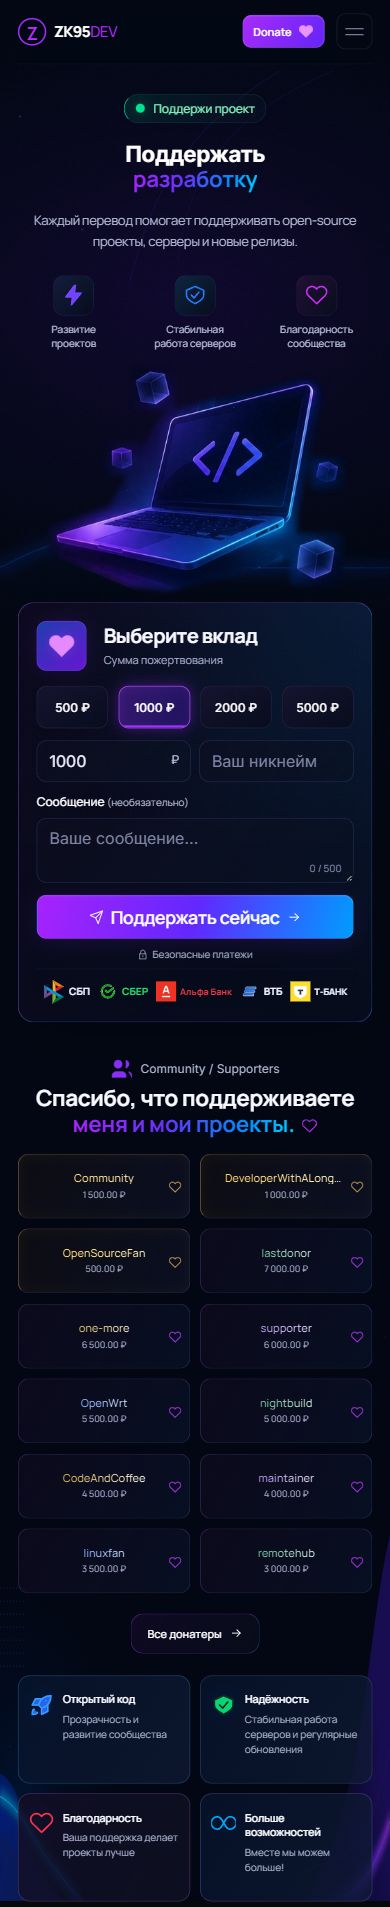
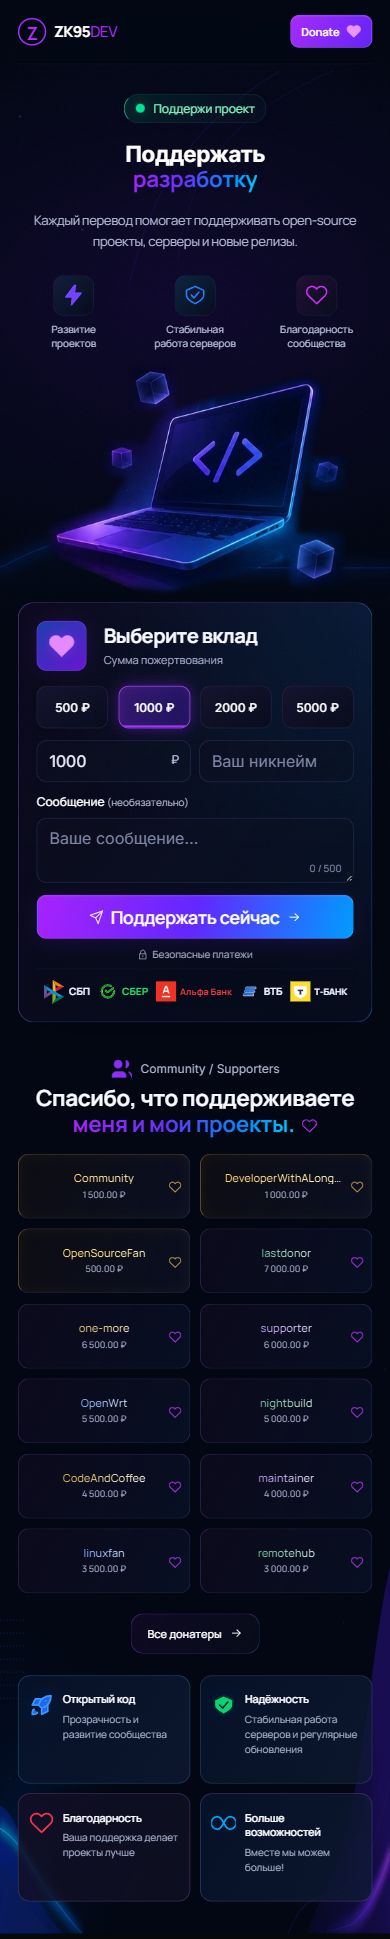
Remove Cyber home navigation and add space below feature cards

diff --git a/templates/admin/base.html b/templates/admin/base.html
@@ -1,2 +1,2 @@
 <!doctype html>
-<html lang="ru"><head><meta charset="utf-8"><meta name="viewport" content="width=device-width, initial-scale=1"><meta name="theme-color" content="#07080a"><link rel="icon" type="image/svg+xml" href="{{ url_for('static', filename='favicon.svg') }}"><link rel="manifest" href="{{ url_for('static', filename='manifest.webmanifest') }}"><link rel="apple-touch-icon" sizes="180x180" href="{{ url_for('static', filename='apple-touch-icon.png') }}"><meta name="apple-mobile-web-app-capable" content="yes"><meta name="apple-mobile-web-app-status-bar-style" content="black-translucent"><title>{% block title %}Admin — ZKS95{% endblock %}</title><link rel="stylesheet" href="{{ url_for('static', filename='css/style.css') }}">{% if site_theme == 'cyber' %}<link rel="stylesheet" href="{{ url_for('static', filename='css/cyber.css', v='compact-4') }}"><link rel="stylesheet" href="{{ url_for('static', filename='css/cyber-shared.css', v='1') }}">{% endif %}{% block head %}{% endblock %}</head><body class="admin-body theme-{{ site_theme }} visual-effect-{{ visual_effect }} visual-speed-{{ visual_speed }}"><div class="visual-layer" aria-hidden="true"></div><header class="admin-header"><a class="brand" href="{{ url_for('admin.dashboard') }}"><span class="brand-mark">Z</span><span>ZKS95<span class="brand-muted">/ADMIN</span></span></a>{% if admin_username %}<nav class="admin-nav"><a href="{{ url_for('admin.dashboard') }}">Обзор</a><a href="{{ url_for('admin.payments') }}">Платежи</a><a href="{{ url_for('admin.donors') }}">Донатеры</a><a href="{{ url_for('admin.notifications') }}">Уведомления</a><a href="{{ url_for('admin.settings') }}">Настройки</a><a href="{{ url_for('admin.account') }}">Аккаунт</a><form method="post" action="{{ url_for('admin.logout') }}"><input type="hidden" name="csrf_token" value="{{ csrf_token() }}"><button>Выйти</button></form></nav>{% endif %}</header><main class="admin-main">{% with messages=get_flashed_messages(with_categories=true) %}{% for category,message in messages %}<div class="flash flash-{{ category }}">{{ message }}</div>{% endfor %}{% endwith %}{% block content %}{% endblock %}</main>{% block scripts %}{% endblock %}</body></html>
+<html lang="ru"><head><meta charset="utf-8"><meta name="viewport" content="width=device-width, initial-scale=1"><meta name="theme-color" content="#07080a"><link rel="icon" type="image/svg+xml" href="{{ url_for('static', filename='favicon.svg') }}"><link rel="manifest" href="{{ url_for('static', filename='manifest.webmanifest') }}"><link rel="apple-touch-icon" sizes="180x180" href="{{ url_for('static', filename='apple-touch-icon.png') }}"><meta name="apple-mobile-web-app-capable" content="yes"><meta name="apple-mobile-web-app-status-bar-style" content="black-translucent"><title>{% block title %}Admin — ZKS95{% endblock %}</title><link rel="stylesheet" href="{{ url_for('static', filename='css/style.css') }}">{% if site_theme == 'cyber' %}<link rel="stylesheet" href="{{ url_for('static', filename='css/cyber.css', v='spacing-5') }}"><link rel="stylesheet" href="{{ url_for('static', filename='css/cyber-shared.css', v='1') }}">{% endif %}{% block head %}{% endblock %}</head><body class="admin-body theme-{{ site_theme }} visual-effect-{{ visual_effect }} visual-speed-{{ visual_speed }}"><div class="visual-layer" aria-hidden="true"></div><header class="admin-header"><a class="brand" href="{{ url_for('admin.dashboard') }}"><span class="brand-mark">Z</span><span>ZKS95<span class="brand-muted">/ADMIN</span></span></a>{% if admin_username %}<nav class="admin-nav"><a href="{{ url_for('admin.dashboard') }}">Обзор</a><a href="{{ url_for('admin.payments') }}">Платежи</a><a href="{{ url_for('admin.donors') }}">Донатеры</a><a href="{{ url_for('admin.notifications') }}">Уведомления</a><a href="{{ url_for('admin.settings') }}">Настройки</a><a href="{{ url_for('admin.account') }}">Аккаунт</a><form method="post" action="{{ url_for('admin.logout') }}"><input type="hidden" name="csrf_token" value="{{ csrf_token() }}"><button>Выйти</button></form></nav>{% endif %}</header><main class="admin-main">{% with messages=get_flashed_messages(with_categories=true) %}{% for category,message in messages %}<div class="flash flash-{{ category }}">{{ message }}</div>{% endfor %}{% endwith %}{% block content %}{% endblock %}</main>{% block scripts %}{% endblock %}</body></html>

diff --git a/static/css/cyber.css b/static/css/cyber.css
@@ -32,10 +32,10 @@ body.theme-cyber {
 .theme-cyber #donate-form, .theme-cyber #features, .theme-cyber #supporters { scroll-margin-top: 85px; }
 .theme-cyber .page-hero h1 { overflow-wrap: anywhere; }
 
-/* Header: the same 64 px rhythm and centred navigation as the supplied image. */
+/* Compact header with the brand and payment action. */
 .theme-cyber .site-header {
   position: sticky; top: 0; z-index: 50; height: 64px; margin: auto;
-  display: grid; grid-template-columns: 220px 1fr 170px; align-items: center;
+  display: grid; grid-template-columns: 1fr auto; align-items: center;
   border-bottom: 1px solid #6374ad18; background: #020713b8;
   backdrop-filter: blur(18px); -webkit-backdrop-filter: blur(18px);
   transition: box-shadow .25s, background .25s;
@@ -138,7 +138,7 @@ body.theme-cyber {
 .theme-cyber .cyber-supporters .empty-state { grid-column: 1 / -1; }
 
 /* Feature strip. */
-.theme-cyber .cyber-features { display: grid; grid-template-columns: repeat(4, minmax(0, 1fr)); gap: 17px; padding-bottom: 0; }
+.theme-cyber .cyber-features { display: grid; grid-template-columns: repeat(4, minmax(0, 1fr)); gap: 17px; padding-bottom: clamp(32px, 4vw, 64px); }
 .cyber-feature { display: flex; gap: 20px; align-items: flex-start; min-width: 0; min-height: 93px; padding: 18px 19px; border: 1px solid #2c699880; border-radius: 16px; background: linear-gradient(120deg, #07132bd9, #101a35bb); }
 .cyber-feature:nth-child(2) { border-color: #4c678466; }.cyber-feature:nth-child(3) { border-color: #71478a80; background: linear-gradient(120deg, #130d24d9, #101326b3); }.cyber-feature:nth-child(4) { border-color: #58509288; }
 .cyber-feature-icon { color: #198bff; display: block; flex-shrink: 0; width: 48px; text-align: center; filter: drop-shadow(0 0 7px #0633b030); }
@@ -160,7 +160,6 @@ body.theme-cyber {
   .cyber-art { left: 430px; width: 475px; top: 35px; }
 }
 @media (max-width: 1190px) and (min-width: 761px) {
-  .theme-cyber .site-header { grid-template-columns: 190px 1fr 145px; }
   .theme-cyber .nav-links { gap: 22px; }
   .cyber-header-actions { gap: 9px; }
   .theme-cyber .cyber-hero { grid-template-columns: minmax(0, 1fr) 330px; gap: 25px; min-height: 470px; }
@@ -173,7 +172,6 @@ body.theme-cyber {
   .theme-cyber .cyber-features { gap: 12px; }.cyber-feature { gap: 10px; padding: 16px 12px; }.cyber-feature-icon { width: 35px; }.cyber-feature h3 { font-size: 12px !important; }.cyber-feature p { font-size: 10px; }
 }
 @media (max-width: 950px) and (min-width: 761px) {
-  .theme-cyber .site-header { grid-template-columns: 170px 1fr 88px; }
   .theme-cyber .nav-links { gap: 18px; }.theme-cyber .nav-links a { font-size: 11px; }.cyber-ambient-toggle { display: none; }.cyber-header-donate { padding-inline: 12px; }
   .cyber-intro { max-width: 100%; }.cyber-lead { font-size: 13px; }
   .cyber-benefits { grid-template-columns: 1fr 1fr; gap: 12px; }.cyber-benefits li { flex-direction: row; align-items: center; font-size: 10px; }.cyber-benefits li>span:first-child { width: 35px; height: 35px; }.cyber-benefits li svg { width: 22px; }
@@ -184,7 +182,7 @@ body.theme-cyber {
   body.theme-cyber { --cyber-heading-size: clamp(21px, 5.7vw, 30px); }
   .theme-cyber .shell, .theme-cyber .site-header { width: calc(100% - 36px); }
   .theme-cyber::before { background-size: auto 630px; opacity: .7; }.theme-cyber::after { opacity: .7; }
-  .theme-cyber .site-header { height: 64px; grid-template-columns: 1fr auto 36px; gap: 12px; }
+  .theme-cyber .site-header { height: 64px; gap: 12px; }
   .theme-cyber .brand { font-size: 15px; gap: 8px; letter-spacing: -.4px; }.theme-cyber .brand-mark { width: 28px; height: 28px; font-size: 18px; }
   .cyber-header-actions { grid-column: 2; grid-row: 1; }.cyber-ambient-toggle { display: none; }.cyber-header-donate { min-height: 33px; padding: 0 10px; font-size: 11px; border-radius: 9px; }
   .theme-cyber .menu-toggle { grid-column: 3; grid-row: 1; display: flex; align-items: center; justify-content: center; gap: 5px; width: 36px; height: 36px; border: 1px solid #71639b38; border-radius: 9px; }.theme-cyber .menu-toggle span { width: 18px; background: #d0c5ed; }

diff --git a/templates/themes/cyber/_header.html b/templates/themes/cyber/_header.html
@@ -1,10 +1,6 @@
 {% from 'themes/cyber/_icons.html' import icon %}
 <header class="site-header cyber-header">
   <a class="brand" href="{{ url_for('site.index') }}" aria-label="ZKS95 Developer — главная"><span class="brand-mark">Z</span><span>ZK95<span class="brand-muted">DEV</span><span class="brand-period">.</span></span></a>
-  <button class="menu-toggle" aria-label="Открыть меню" aria-expanded="false" aria-controls="cyber-navigation"><span></span><span></span></button>
-  <nav class="nav-links" id="cyber-navigation" aria-label="Основная навигация">
-    <a href="{{ url_for('site.donate') }}" {% if request.endpoint == 'site.donate' %}aria-current="page"{% endif %}>{{ icon('home',16) }} Главная</a>
-  </nav>
   <div class="cyber-header-actions">
     <button type="button" class="cyber-ambient-toggle" aria-label="Уменьшить свечение и анимацию" title="Уменьшить свечение и анимацию" aria-pressed="false">{{ icon('sun',14) }}{{ icon('moon',13) }}</button>
     <a class="cyber-header-donate" href="{{ url_for('site.donate', _anchor='donate-form') }}">Donate {{ icon('heart',15) }}</a>

diff --git a/templates/base.html b/templates/base.html
@@ -19,7 +19,7 @@
   <link rel="preconnect" href="https://fonts.gstatic.com" crossorigin>
   <link href="https://fonts.googleapis.com/css2?family=DM+Mono:wght@400;500&family=Manrope:wght@400;500;600;700;800{% if site_theme == 'cyber' %}&family=Inter:wght@400;500;600;700;800;900{% endif %}&display=swap" rel="stylesheet">
   <link rel="stylesheet" href="{{ url_for('static', filename='css/style.css') }}">
-  {% if site_theme == 'cyber' %}<link rel="stylesheet" href="{{ url_for('static', filename='css/cyber.css', v='compact-4') }}"><link rel="stylesheet" href="{{ url_for('static', filename='css/cyber-shared.css', v='1') }}">{% endif %}
+  {% if site_theme == 'cyber' %}<link rel="stylesheet" href="{{ url_for('static', filename='css/cyber.css', v='spacing-5') }}"><link rel="stylesheet" href="{{ url_for('static', filename='css/cyber-shared.css', v='1') }}">{% endif %}
   {% block head %}{% endblock %}
 </head>
 <body class="theme-{{ site_theme }} visual-effect-{{ visual_effect }} visual-speed-{{ visual_speed }}">

diff --git a/docs/CYBER-REFERENCE.md b/docs/CYBER-REFERENCE.md
@@ -4,12 +4,12 @@
 
 ## Реализация
 
-- Шапка высотой 64 px с логотипом, навигацией, кнопкой Donate и переключателем спокойного оформления.
+- Шапка высотой 64 px с логотипом, кнопкой Donate и переключателем спокойного оформления. Все пункты навигации убраны по запросу владельца; пустое мобильное меню не отображается.
 - Двухстрочный заголовок с фиолетово-синим градиентом, три преимущества и ноутбук в центре. По последующему запросу владельца размер заголовка совпадает с заголовком донатеров на ПК и телефонах; логотип уменьшен.
 - Компактная платёжная форма с теми же суммой, никнеймом и сообщением. Никнейм сохранён рядом с произвольной суммой. Ограничение сообщения остаётся 500 символов.
 - Четыре колонки донатеров на компьютере, три на планшетах, одна или две на телефонах. Первые 12 видны сразу, кнопка по центру под списком раскрывает остальные и сворачивает их обратно.
 - Аватарки убраны по запросу владельца; весь текст карточек выровнен по центру. Имена, суммы, даты, ссылки и закрепление берутся из существующей базы. Для закреплённых сохранены золотые акценты.
-- Секция возможностей повторяет горизонтальные карточки референса. Публичный футер и пункты меню «Возможности», «Поддержка», «Контакты» убраны по последующему запросу владельца.
+- Секция возможностей повторяет горизонтальные карточки референса; под карточками оставлен адаптивный отступ 32–64 px до края страницы. Публичный футер и пункты меню убраны по последующему запросу владельца.
 - SVG-волны, световые дуги и точки масштабируются отдельно от контента. Фон растягивается на всю ширину окна и привязан к высоте всей страницы. Мобильная версия перестраивается вертикально.
 - Переключатель солнца/луны уменьшает свечение и отключает движение ноутбука. Выбор хранится только на текущем устройстве; глобальную тему посетитель не меняет. Системное `prefers-reduced-motion` также учитывается.
 

diff --git a/docs/THEME-VALIDATION.md b/docs/THEME-VALIDATION.md
@@ -73,3 +73,5 @@
 ## Компактные заголовки и карточки донатеров
 
 Заголовки первого экрана и донатеров используют общий размер: 31 px на ПК, одинаковое адаптивное значение на телефоне. Логотип уменьшен, значки СБП и банков увеличены. Аватарки убраны, текст карточек расположен по центру. Кнопка под списком проверена на раскрытие и сворачивание: 12 → 14 → 12 тестовых записей на ПК и телефоне. Проверены ширины 320, 390, 768, 1536 и 1920 px без переполнения страницы и строки банков; скриншоты обновлены. Синтаксис JavaScript и 15 тестов тем проходят.
+
+Пункт «Главная» и пустое мобильное меню убраны из шапки Premium Cyber. Под четырьмя последними карточками добавлен адаптивный отступ 32–64 px, чтобы они не упирались в край страницы. Повторно проверены ширины 320, 390 и 1536 px без горизонтального переполнения; скриншоты обновлены, 15 тестов тем проходят.
